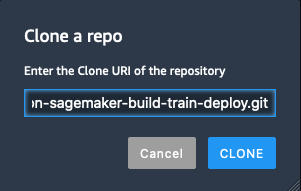
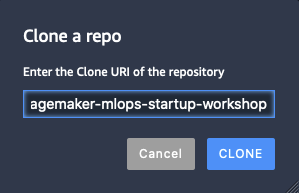
Updated README.md

diff --git a/labs/01_configure_sagemaker_studio/README.md b/labs/01_configure_sagemaker_studio/README.md
@@ -61,7 +61,7 @@ Click the Git icon (1 in the picture) and then select `Clone a repository` (step
 
 ![Clone the repository](img/smstudio_clone_repo_steps.jpg)
 
-Type in the URL of this repository (https://github.com/shneydor/amazon-sagemaker-build-train-deploy.git) and click `Clone`.
+Type in the URL of this repository (https://github.com/aws-samples/amazon-sagemaker-mlops-startup-workshop.git) and click `Clone`.
 
 ![Clone the repository](img/clone_a_repo.png)
 
@@ -69,9 +69,9 @@ Type in the URL of this repository (https://github.com/shneydor/amazon-sagemaker
 
 ## 5. Start the Workshop!
 
-In the File Browser, click `amazon-sagemaker-build-train-deploy` and open the folder `02_data_exploration_and_feature_eng`
+In the File Browser, click `amazon-sagemaker-mlops-startup-workshop` and open the folder `02_initial_notebook` folder
 
-Then, open the `02_data_exploration_and_feature_eng.ipynb` Jupyter notebook.
+Then, open the `02_initial_notebook.ipynb` Jupyter notebook.
 
 ![Open step 2 folder](img/smstudio_open_notebook.jpg)
 
